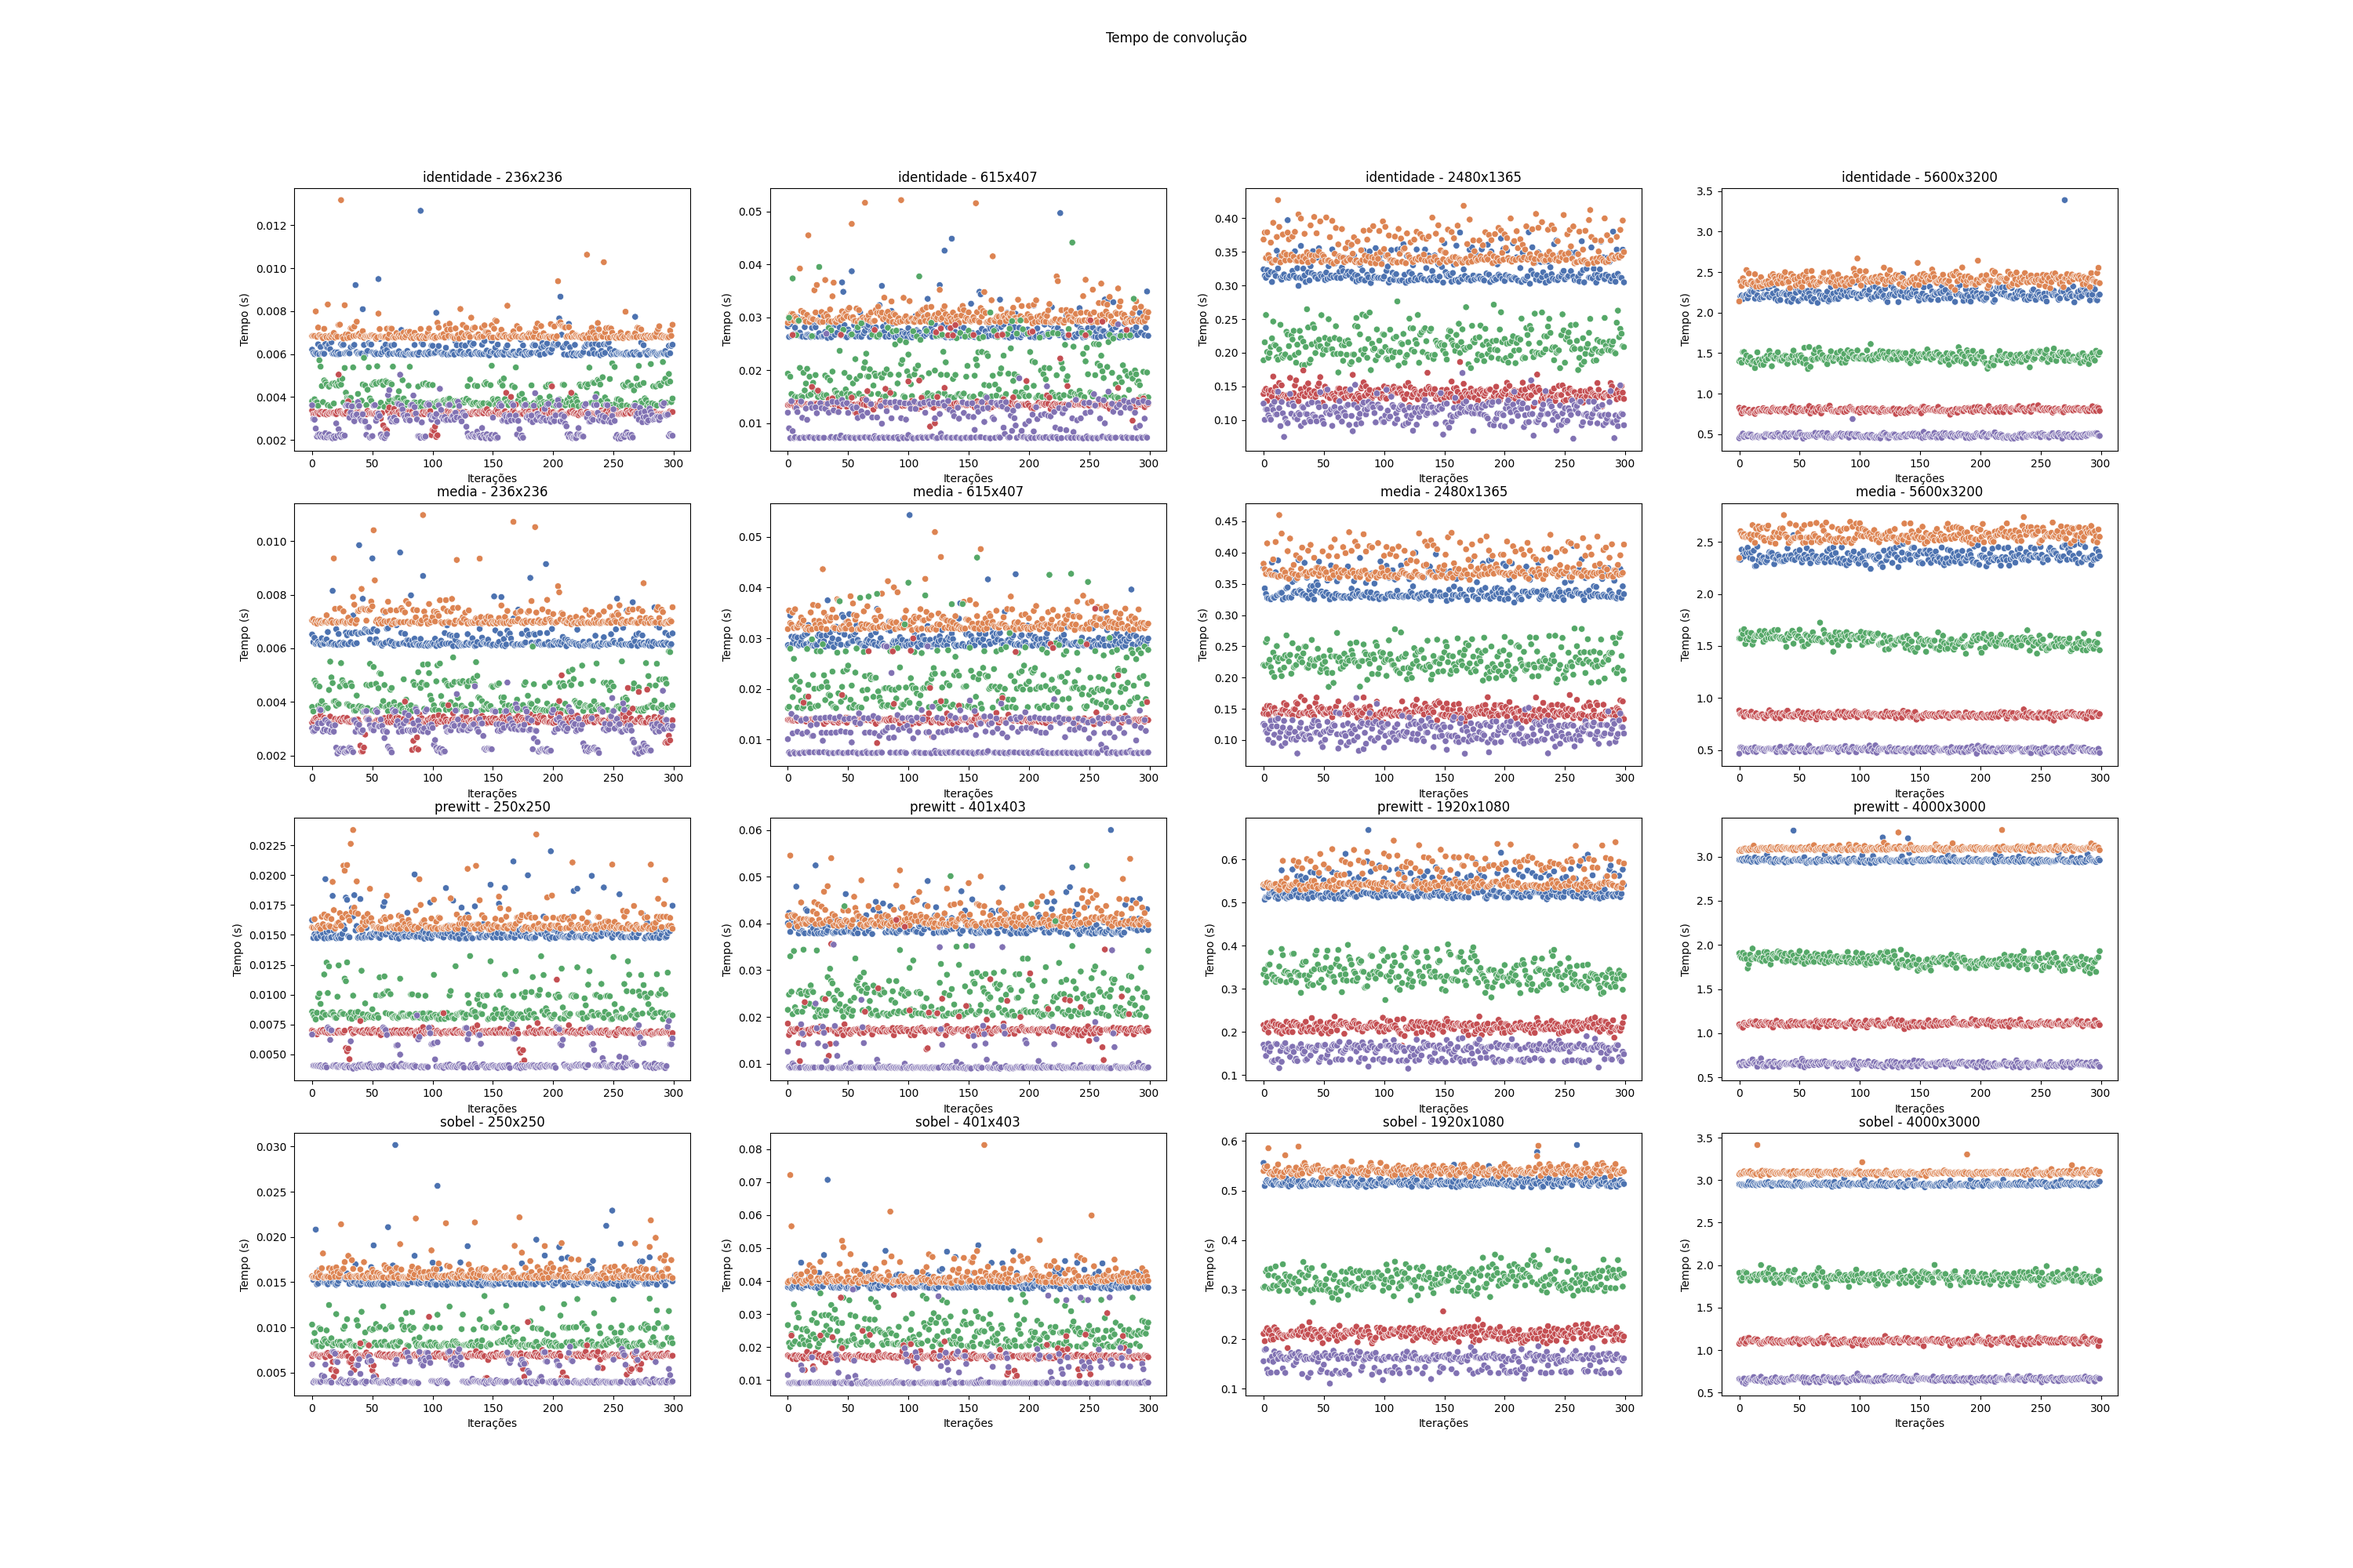
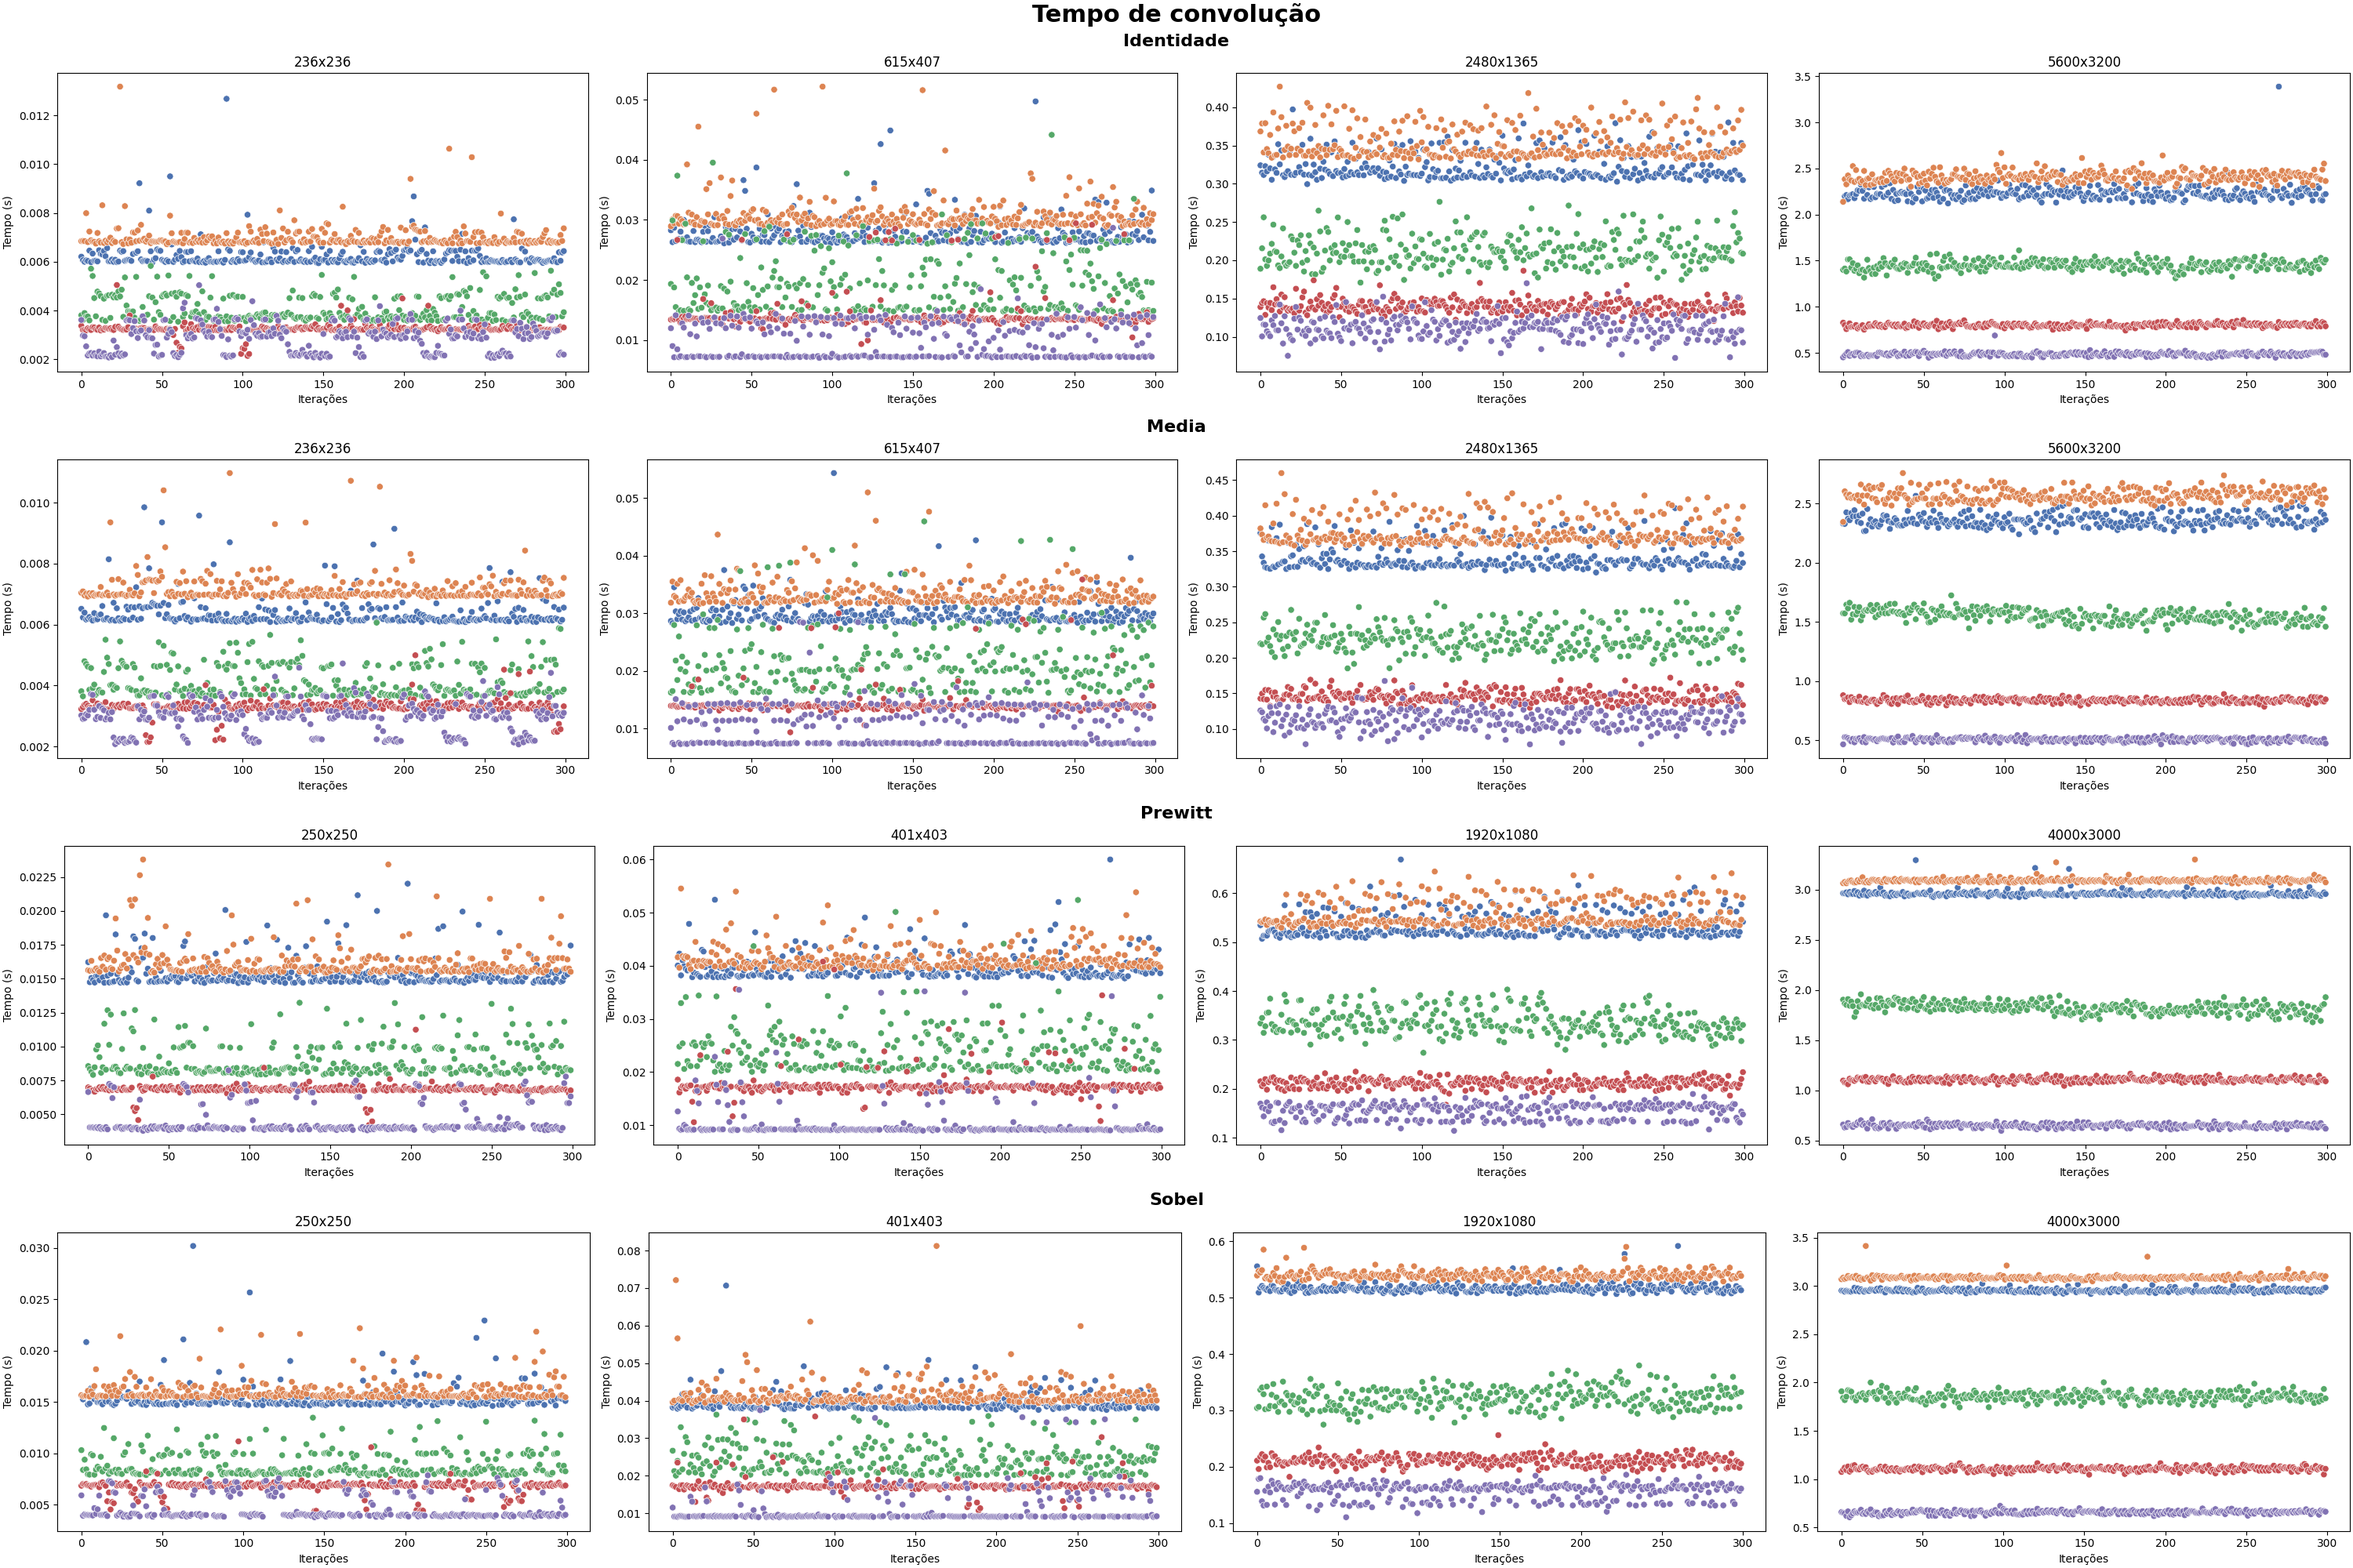
testes atualizados

diff --git a/plots/create_plots.py b/plots/create_plots.py
@@ -3,7 +3,7 @@ import matplotlib.pyplot as plt
 import seaborn as sns
 pd.set_option('display.max_rows', 5000)
 COLUMNS = ['read', 'pre_processing', 'create_kernel', 'convolution', 'write']
-
+#https://stackoverflow.com/questions/35634238/how-to-save-a-pandas-dataframe-table-as-a-png
 
 
 
@@ -18,7 +18,7 @@ def merge_all_csv_from_directory(directory):
 
     final_df = pd.read_csv(rf'{directory}/sequencial.csv', sep=';', header=None, names=COLUMNS)
     
-    final_df['tempo_total'] = final_df.sum(axis=1)
+    final_df['tempo_total'] = final_df.sum(axis=1)  
     final_df = final_df.reset_index()
     num_threads = ['Sequencial']*len(final_df)
     final_df['Threads'] = num_threads
@@ -94,29 +94,100 @@ def all_in_one_plot(column_name, title):
     return f
 
 
-all_in_one_plot('convolution', 'Tempo de convolução').savefig(rf'./plots/all_in_one_convolution.png')
-"""get_altogether_convolution_plot('read', 'Tempo de leitura')
+def all_in_one_plot_with_subtitles(column_name, title):
+    fg = plt.figure(constrained_layout=True)
+    fg.suptitle(title, fontsize=22, fontweight='heavy')
+    fg.set_figwidth(30)
+    fg.set_figheight(20)
+    
+    imagens = {'minuscula': '236x236', 
+          'pequena': '615x407', 
+          'media': '2480x1365', 
+          'grande': '5600x3200'}
+    subfigs = fg.subfigures(nrows=4, ncols=1)
+    for tipo_index in tipos:
+        
+        if tipo_index == 2:
+            imagens = {'minuscula': '250x250',
+            'pequena': '401x403',
+            'media': '1920x1080',
+            'grande': '4000x3000'
+            }
+            
+        subfigs[tipo_index].suptitle(f'{tipos[tipo_index].capitalize()}', fontsize=16, fontweight='semibold')
+        axs = subfigs[tipo_index].subplots(nrows=1, ncols=4)
+        for j, image_size in enumerate(imagens):
+            
+            dir = rf'./../tests/eficiencia/{tipos[tipo_index]}/imagem_{image_size}'
+            merged_csv = merge_all_csv_from_directory(dir)
+
+            sns.scatterplot(data=merged_csv, x='index', y=f'{column_name}', hue='Threads', hue_order=['Sequencial',1,2,4,8], legend=False, palette='deep', ax=axs[j]).set(xlabel = 'Iterações', ylabel = 'Tempo (s)', title = f'{imagens[image_size]}')
+            #fig.set(xlabel = 'Iterações', ylabel = 'Tempo (s)', title = f'{imagens[image_size]}')
+
+            axs[j].plot()
+            #f.legend(bbox_to_anchor=(1.02, 0.55), loc='upper left', borderaxespad=-.5)
+    return fg
+
+"""all_in_one_plot_with_subtitles('convolution', 'Tempo de convolução').savefig(rf'./plots/all_in_one_convolution.png')
+get_altogether_convolution_plot('read', 'Tempo de leitura')
 get_altogether_convolution_plot('pre_processing', 'Tempo de pré-processamento')
 get_altogether_convolution_plot('write', 'Tempo de escrita')
 get_altogether_convolution_plot('tempo_total', 'Tempo total')"""
 
 
+def print_average(column):
+    imagens = {'minuscula': '236x236', 
+        'pequena': '615x407', 
+        'media': '2480x1365', 
+        'grande': '5600x3200'}
+    df_median = pd.DataFrame() 
+    for tipo_index in tipos:
+        
+        if tipo_index == 2:
+            imagens = {'minuscula': '250x250',
+            'pequena': '401x403',
+            'media': '1920x1080',
+            'grande': '4000x3000'
+            }
+        df_mean = pd.DataFrame() 
+        aux = pd.DataFrame() 
+        for image_size in imagens:
+            dir = rf'./../tests/eficiencia/{tipos[tipo_index]}/imagem_{image_size}'
+            merged_csv = merge_all_csv_from_directory(dir)
 
+            df_mean = pd.concat([df_mean, pd.DataFrame({f'Média da imagem {image_size}': merged_csv.groupby('Threads')[f'{column}'].mean()})], axis=1)
+            aux['Tipo do efeito'] = tipos[tipo_index].capitalize()
+            aux = pd.concat([aux, pd.DataFrame({f'Mediana da imagem {image_size}': merged_csv.groupby('Threads')[f'{column}'].median()})], axis=1)
+            
+            #aux = pd.concat([aux, pd.DataFrame([{f'Tipo do efeito': tipos[tipo_index]}])], axis=1)
+        
+        df_median = pd.concat([df_median, aux.rename(columns={'index': 'Threads'})], axis=0)
+        
+        fig, ax = plt.subplots(figsize=(12, 2))
+        ax.xaxis.set_visible(False)
+        ax.yaxis.set_visible(False)
+        ax.set_frame_on(False)
+        tabla = pd.plotting.table(ax, df_mean, loc='upper right', colWidths=[0.2]*len(df_mean.columns), cellColours=[['lightcyan']*4, ['paleturquoise']*4, ['lightcyan']*4, ['paleturquoise']*4, ['lightcyan']*4], colColours=['gainsboro']*4, rowColours=['whitesmoke','gainsboro', 'whitesmoke','gainsboro', 'whitesmoke'], cellLoc='left')
+        tabla.auto_set_font_size(False)
+        tabla.set_fontsize(9)
+        tabla.scale(1.2, 1.2)
 
-
-
-
-
-
-
-
-
-
-
-
-
-"""df = merge_all_csv_from_directory(r'./../tests/eficiencia/identidade/imagem_media')
-df2 = pd.DataFrame({'Media': df.groupby('Threads')['convolution'].mean()})
+        plt.savefig(f'./plots/tabelas/{tipos[tipo_index]}_{column}_mean.png', transparent=True)
+        
+    
+    fig, ax = plt.subplots(figsize=(15, 12))
+    ax.xaxis.set_visible(False)
+    ax.yaxis.set_visible(False)
+    ax.set_frame_on(False)
+    tabla = pd.plotting.table(ax, df_median, loc='center right', colWidths=[0.2]*len(df_median.columns), cellColours=[['lightcyan']*5,['paleturquoise']*5]*10, colColours=['gainsboro']*5, rowColours=['whitesmoke','gainsboro']*10, cellLoc='left')
+    tabla.auto_set_font_size(False)
+    tabla.auto_set_column_width([0,1,2,3,4,5])
+    tabla.set_fontsize(9)
+    tabla.scale(1.3, 1.3)
+    plt.savefig(f'./plots/tabelas/{column}_median.png', transparent=True)
+print_average('convolution')
+print_average('tempo_total')
+"""
 df = df.merge(df2, on='Threads', how='left')
 
 fig  = sns.scatterplot(data=df, x='index', y='convolution', hue='Threads', hue_order=[0,1,2,4,8], legend='auto', palette='deep')
